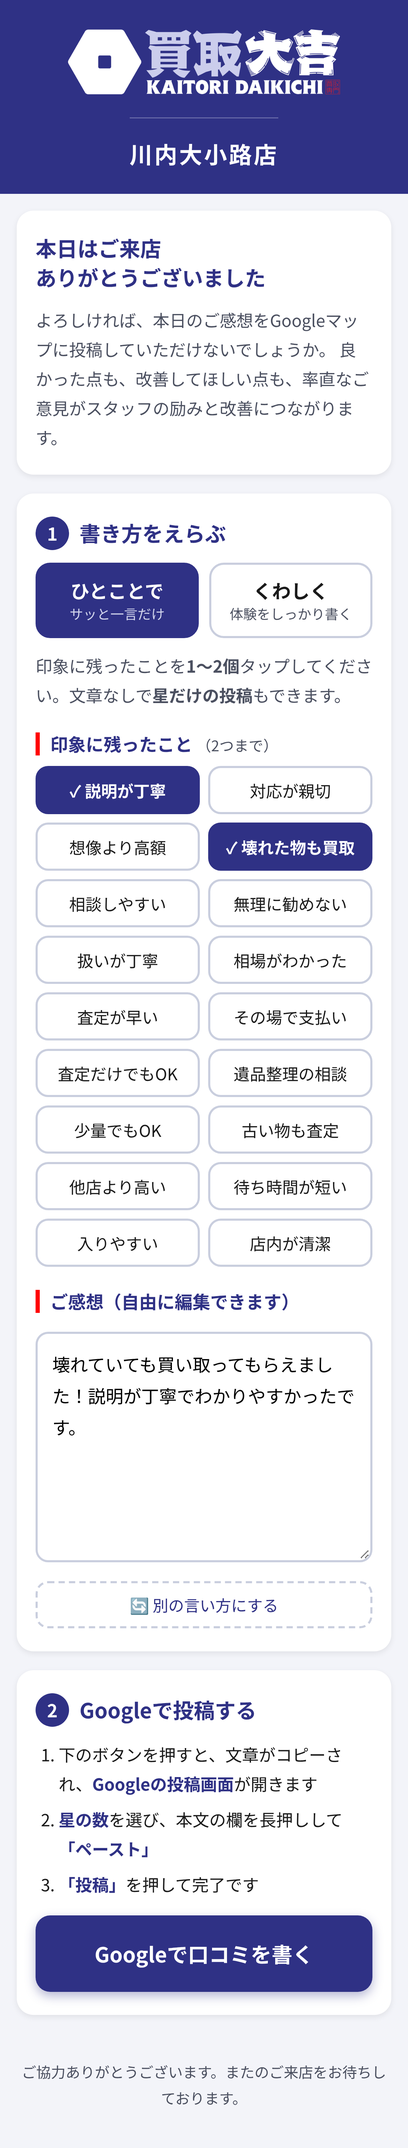
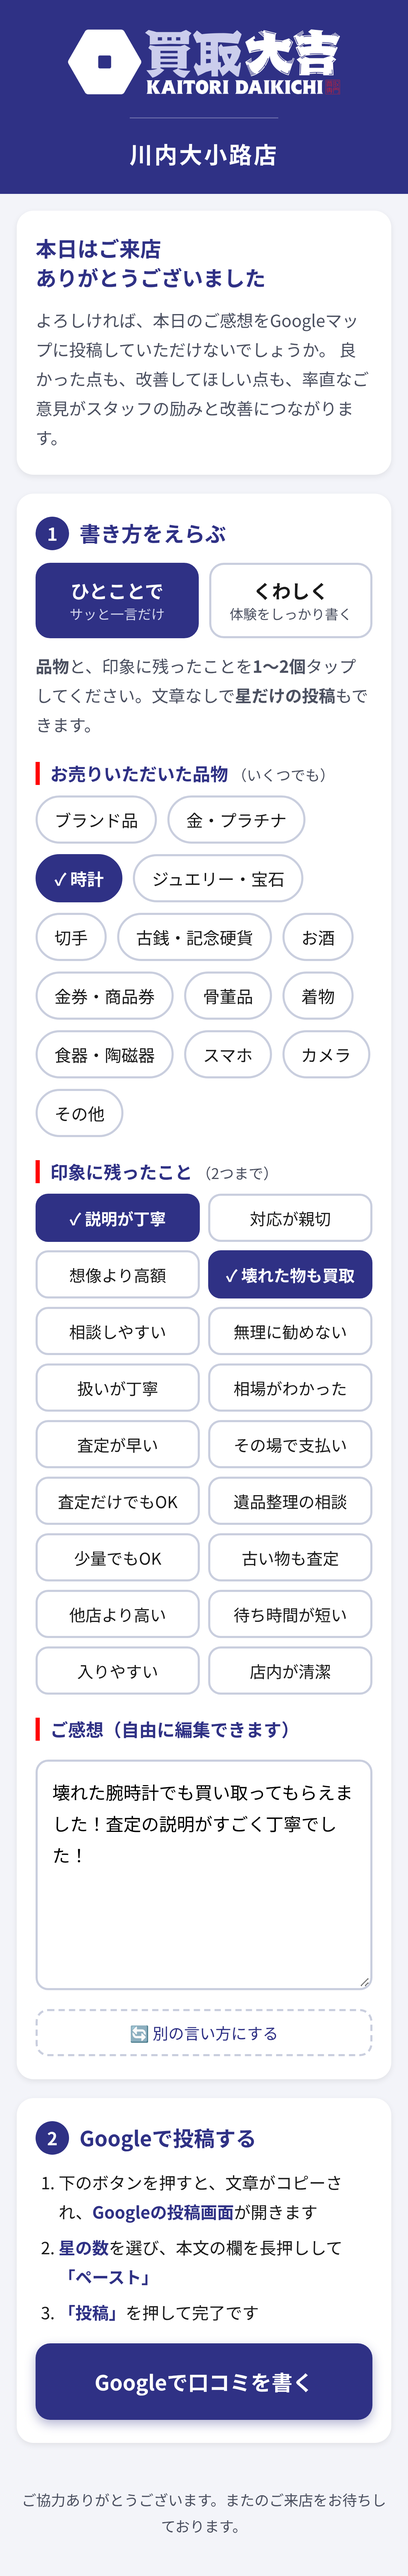
品物のキーワード（貴金属・時計など）が必ず文章に入るように
- 「ひとこと」モードにも品物の選択欄を追加
- 品物ごとに検索されやすい言葉を設定（金・プラチナ → 貴金属 など）
- 品物が1つなら「壊れた時計でも〜」のように文中にも自然に入れる
- 同じ品物名の繰り返しは本文中1回まで（詰め込み防止）
- 「スマホ・カメラ」を別々のボタンに分割（売っていない物を書かないため）

Claude-Session: https://claude.ai/code/session_019pqPey41PXqapbJbBahgUt

diff --git a/index.html b/index.html
@@ -137,16 +137,16 @@
       <button type="button" class="mode" data-mode="short"><b>ひとことで</b><small>サッと一言だけ</small></button>
       <button type="button" class="mode" data-mode="detail"><b>くわしく</b><small>体験をしっかり書く</small></button>
     </div>
-    <p class="muted short-only" style="margin-top:12px">印象に残ったことを<b>1〜2個</b>タップしてください。文章なしで<b>星だけの投稿</b>もできます。</p>
+    <p class="muted short-only" style="margin-top:12px"><b>品物</b>と、印象に残ったことを<b>1〜2個</b>タップしてください。文章なしで<b>星だけの投稿</b>もできます。</p>
     <p class="muted detail-only" style="margin-top:12px">当てはまるものをタップすると下書きができます。ご自身の言葉で自由に書き換えてください。</p>
 
     <div class="detail-only">
       <div class="label">ご利用は</div>
       <div class="chips" data-group="visit"></div>
-
-      <div class="label">お売りいただいた品物 <small>（いくつでも）</small></div>
-      <div class="chips" data-group="item"></div>
     </div>
+
+    <div class="label">お売りいただいた品物 <small>（いくつでも）</small></div>
+    <div class="chips" data-group="item"></div>
 
     <div class="label">印象に残ったこと <small class="short-only">（2つまで）</small><small class="detail-only">（いくつでも）</small></div>
     <div class="chips grid" data-group="point"></div>
@@ -191,9 +191,24 @@ const CONFIG = {
   // ご利用回数（1つだけ選べる）
   visits: ["初めて", "2回目以上"],
   // 品物（複数選べる。「その他」は文章に品名を出さない）
+  //   words: 文章の中で使う言葉。Googleで検索されやすいキーワード（貴金属・時計など）を入れる。
+  //          複数あるときは開くたびにどれか1つを使う。お客様が売っていない物を書かないよう、
+  //          ボタンの意味と同じ範囲の言葉だけにする（例：「金・プラチナ」→「貴金属」はOK）
   items: [
-    "ブランド品", "金・プラチナ", "時計", "ジュエリー・宝石", "切手", "古銭・記念硬貨",
-    "お酒", "金券・商品券", "骨董品", "着物", "食器・陶磁器", "スマホ・カメラ", "その他",
+    { label: "ブランド品",       words: ["ブランド品", "ブランド品"] },
+    { label: "金・プラチナ",     words: ["貴金属", "金・プラチナなどの貴金属"] },
+    { label: "時計",             words: ["時計", "腕時計"] },
+    { label: "ジュエリー・宝石", words: ["ジュエリー", "宝石・ジュエリー"] },
+    { label: "切手",             words: ["切手"] },
+    { label: "古銭・記念硬貨",   words: ["古銭・記念硬貨"] },
+    { label: "お酒",             words: ["お酒"] },
+    { label: "金券・商品券",     words: ["金券"] },
+    { label: "骨董品",           words: ["骨董品"] },
+    { label: "着物",             words: ["着物"] },
+    { label: "食器・陶磁器",     words: ["食器・陶磁器"] },
+    { label: "スマホ",           words: ["スマホ"] },
+    { label: "カメラ",           words: ["カメラ"] },
+    { label: "その他",           words: [] },
   ],
   // 印象に残ったこと
   // ★ 画面にはこの並び順のまま表示される。選んでほしいものほど上に書く。
@@ -205,7 +220,7 @@ const CONFIG = {
   points: [
     // --- 上位：お店として特に伝わってほしいこと ---
     { label: "説明が丁寧", rp: 6,
-      mids: ["査定の内容を一つずつ丁寧に説明していただき", "査定額の理由をわかりやすく説明してくれて", "なぜこの金額なのかをきちんと説明してもらえて"],
+      mids: ["査定の内容を一つずつ丁寧に説明していただき", "{it|品物}の査定額の理由をわかりやすく説明してくれて", "なぜこの金額なのかをきちんと説明してもらえて"],
       ends: ["査定の内容を一つずつ丁寧に説明していただけました", "査定額の理由をわかりやすく説明してくれました", "なぜこの金額なのか、きちんと説明してもらえて納得できました"],
       shorts: ["説明が丁寧でわかりやすかったです。", "査定の説明がすごく丁寧でした！", "金額の理由まで説明してくれて納得でした。"],
       recs: ["初めてでも納得して売れると思います。", "買取が初めての人にもいいと思います。"] },
@@ -216,13 +231,13 @@ const CONFIG = {
       recs: ["安心して相談できるお店です。"] },
     { label: "想像より高額", rp: 5,
       mids: ["思っていたより高い金額をつけていただき", "予想以上の金額になって", "想像していたより高く買い取ってもらえて"],
-      ends: ["思っていたより高い金額がついて嬉しかったです", "予想以上の金額になってびっくりしました", "想像していたより高く買い取ってもらえました"],
-      shorts: ["思ってたより高く売れて嬉しかったです！", "予想以上の金額でした。", "想像より高値がついてびっくりしました。"],
+      ends: ["思っていたより高い金額がついて嬉しかったです", "予想以上の金額になってびっくりしました", "{it|品物}を想像していたより高く買い取ってもらえました"],
+      shorts: ["{it|品物}が思ってたより高く売れて嬉しかったです！", "予想以上の金額でした。", "{it|品物}に想像より高値がついてびっくりしました。"],
       recs: ["迷っている物があるなら一度見てもらうといいと思います。", "売るか迷っている人は一度査定してもらうといいです。"] },
     { label: "壊れた物も買取", rp: 1,
-      mids: ["壊れて使えなくなった物まで買い取っていただき", "壊れている物でも値段をつけてくれて", "動かなくなった物まで買い取ってもらえて"],
-      ends: ["壊れて使えなくなった物まで買い取っていただけました", "壊れている物でもちゃんと値段をつけてくれました", "動かなくなった物まで買い取ってもらえて助かりました"],
-      shorts: ["壊れていても買い取ってもらえました！", "壊れた物にも値段がついて驚きました。", "捨てようと思っていた物が売れて助かりました。"],
+      mids: ["壊れて使えなくなった{it|物}まで買い取っていただき", "壊れている{it|物}でも値段をつけてくれて", "動かなくなった物まで買い取ってもらえて"],
+      ends: ["壊れて使えなくなった{it|物}まで買い取っていただけました", "壊れている{it|物}でもちゃんと値段をつけてくれました", "動かなくなった物まで買い取ってもらえて助かりました"],
+      shorts: ["壊れた{it|物}でも買い取ってもらえました！", "壊れた{it|物}にも値段がついて驚きました。", "捨てようと思っていた{it|物}が売れて助かりました。"],
       recs: ["捨てる前に一度持っていくのがおすすめです。", "壊れているからと諦めずに相談してみてください。"] },
     { label: "相談しやすい", rp: 8,
       mids: ["わからないことも気軽に相談でき", "質問にも嫌な顔せず答えてくれて", "気になることを何でも聞きやすくて"],
@@ -235,9 +250,9 @@ const CONFIG = {
       shorts: ["無理に勧められず安心でした。", "しつこくなくて良かったです。", "押し売り感がなくて安心しました。"],
       recs: ["まずは金額だけ聞いてみたい人でも行きやすいと思います。"] },
     { label: "扱いが丁寧", rp: 10,
-      mids: ["大切な品物を丁寧に扱っていただき", "品物を丁寧に扱ってくれて", "思い出の品も大事に扱ってもらえて"],
-      ends: ["大切な品物を丁寧に扱っていただけました", "品物を丁寧に扱ってくれました", "思い出の品も大事に扱ってもらえて嬉しかったです"],
-      shorts: ["品物を丁寧に扱ってくれました。", "扱いが丁寧で好感が持てました。", "大事な物を丁寧に見てもらえました。"],
+      mids: ["大切な{it|品物}を丁寧に扱っていただき", "品物を丁寧に扱ってくれて", "思い出の品も大事に扱ってもらえて"],
+      ends: ["大切な{it|品物}を丁寧に扱っていただけました", "品物を丁寧に扱ってくれました", "思い出の品も大事に扱ってもらえて嬉しかったです"],
+      shorts: ["{it|品物}を丁寧に扱ってくれました。", "扱いが丁寧で好感が持てました。", "大事な{it|物}を丁寧に見てもらえました。"],
       recs: ["思い入れのある物でも安心して任せられます。"] },
     { label: "相場がわかった", rp: 7,
       mids: ["相場についてわかりやすく教えていただき", "今の相場も教えてくれて", "相場の話も聞けて"],
@@ -271,14 +286,14 @@ const CONFIG = {
       shorts: ["少しだけでも快く見てくれました。", "数点だけでも大丈夫でした。", "少量でも嫌な顔されませんでした。"],
       recs: ["少しだけ売りたい時でも気軽に持ち込めます。"] },
     { label: "古い物も査定", rp: 1.5,
-      mids: ["古い物や傷のある物も一つずつ見ていただき", "古くて傷のある物まで見てくれて", "昔の物も一つずつ確認してもらえて"],
-      ends: ["古い物や傷のある物も一つずつ見ていただけました", "古くて傷のある物まで見てくれました", "昔の物も一つずつ確認してもらえました"],
-      shorts: ["古い物でもちゃんと見てくれました。", "傷がある物も査定してもらえました。", "昔の物も一つずつ見てもらえました。"],
+      mids: ["古い物や傷のある物も一つずつ見ていただき", "古くて傷のある{it|物}まで見てくれて", "昔の物も一つずつ確認してもらえて"],
+      ends: ["古い物や傷のある物も一つずつ見ていただけました", "古くて傷のある{it|物}まで見てくれました", "昔の物も一つずつ確認してもらえました"],
+      shorts: ["古い{it|物}でもちゃんと見てくれました。", "傷がある{it|物}も査定してもらえました。", "昔の物も一つずつ見てもらえました。"],
       recs: ["古い物でも諦めずに一度見てもらうといいと思います。"] },
     { label: "他店より高い", rp: 5.5,
       mids: ["他のお店よりも高い金額を提示していただき", "他店より高い金額を出してくれて", "よそで聞いた金額より高くて"],
-      ends: ["他のお店よりも高い金額を提示していただけました", "他店より高い金額を出してくれました", "よそで聞いた金額より高くて驚きました"],
-      shorts: ["他のお店より高かったです！", "よそより高く売れました。", "他店と比べてこちらが高かったです。"],
+      ends: ["他のお店よりも高い金額を提示していただけました", "{it|品物}に他店より高い金額を出してくれました", "よそで聞いた金額より高くて驚きました"],
+      shorts: ["他のお店より高かったです！", "{it|品物}がよそより高く売れました。", "他店と比べてこちらが高かったです。"],
       recs: ["どこに売るか迷っているなら比べてみるといいです。"] },
     // --- 下位：お店の環境 ---
     { label: "待ち時間が短い", rp: 14,
@@ -328,10 +343,12 @@ function reroll() {
     firstRec:       pick(["初めてでも安心して利用できると思います。", "初めての人でも大丈夫だと思います。"]),
     closing:        pick(["また利用したいと思います。", "また何かあればお願いします。", "次もお願いしようと思います。", "ありがとうございました。", "また来ます！", ""]),
     shortClosing:   pick(["また来ます！", "ありがとうございました。", "また利用します。", "", ""]),
+    shortItem:      pick(["{items}を売りました。", "{items}の買取でお世話になりました。", "{items}を買い取ってもらいました。", "{items}の買取で利用しました。"]),
     swapShort:      Math.random() < 0.5,
     useRec:         Math.random() < 0.5,   // 「これから来る人へ」は半分の確率でだけ入れる（毎回入ると宣伝っぽくなる）
   };
   V = {};
+  CONFIG.items.forEach(it => { V["item:" + it.label] = pick(it.words.length ? it.words : [""]); });
   CONFIG.points.forEach(p => {
     V[p.label] = { mid: pick(p.mids), end: pick(p.ends), short: pick(p.shorts), rec: pick(p.recs) };
   });
@@ -344,6 +361,20 @@ function joinItems(list) {
   return list.slice(0, -1).join("、") + "と" + list[list.length - 1];
 }
 
+// 選んだ品物 → 文章で使う言葉（「その他」は除く）
+const itemWords = sel => sel.item.filter(x => x !== "その他").map(l => V["item:" + l]);
+
+// {it|代わりの言葉} を埋める。品物が1つだけ選ばれていればその言葉、それ以外は代わりの言葉。
+// 同じ品物名を何度も繰り返すと不自然（キーワードの詰め込み）なので、本文中で使うのは1回まで
+let usedIt = false;
+function fill(t, sel) {
+  const ws = itemWords(sel);
+  return t.replace(/\{it\|([^}]*)\}/g, (_, fb) => {
+    if (ws.length === 1 && !usedIt) { usedIt = true; return ws[0]; }
+    return fb;
+  });
+}
+
 // 文頭に来たら「〜も」→「〜が」にする主語（「古い物も」「わからないことも」は「も」のままが自然なので入れない）
 const FIRST_SUBJECTS = /^(スタッフの方の対応|スタッフの方|待ち時間|お店の雰囲気|お店の中|お店|査定|店内)も/;
 
@@ -352,7 +383,7 @@ function joinPoints(labels) {
   const sentences = [];
   for (let i = 0; i < labels.length; i += 2) {
     const pair = labels.slice(i, i + 2);
-    let s = pair.length === 2 ? `${V[pair[0]].mid}、${V[pair[1]].end}。` : `${V[pair[0]].end}。`;
+    let s = pair.length === 2 ? `${fill(V[pair[0]].mid, selected)}、${fill(V[pair[1]].end, selected)}。` : `${fill(V[pair[0]].end, selected)}。`;
     if (i === 0) s = s.replace(FIRST_SUBJECTS, "$1が");
     sentences.push(s);
   }
@@ -363,17 +394,24 @@ function joinPoints(labels) {
 const endPunct = t => (t && !/[。！!？?♪）)」]$/.test(t)) ? t + "。" : t;
 
 // ひとことモード：選んだ項目（最大2つ）の短い一文だけ
+// 品物を選んでいれば、その言葉（貴金属・時計など）が必ず文章に入る
 function buildShort(sel) {
   const labels = sel.point.slice(0, 2);
-  if (!labels.length) return "";
+  const ws = itemWords(sel);
+  usedIt = false;
   const ordered = W.swapShort ? [...labels].reverse() : labels;   // 並び順もときどき入れ替える
-  return ordered.map(l => V[l].short).join("") + W.shortClosing;
+  const body = ordered.map(l => fill(V[l].short, sel)).join("");
+  // 品物名が本文に入らなかった時だけ「〇〇を売りました。」を前につける（同じ言葉を2回続けない）
+  const opening = (ws.length && !usedIt) ? W.shortItem.replace("{items}", joinItems(ws)) : "";
+  if (!opening && !body) return "";
+  return opening + body + (body ? W.shortClosing : "");
 }
 
 // くわしくモード：きっかけ → 体験 →（ご自身の言葉）→（これから来る人へ）→ 締め
 function buildDetail(sel, own) {
-  const items = sel.item.filter(x => x !== "その他");
-  const itemText = items.length ? joinItems(items) : (sel.item.length ? "手持ちの品" : "");
+  const ws = itemWords(sel);
+  const itemText = ws.length ? joinItems(ws) : (sel.item.length ? "手持ちの品" : "");
+  usedIt = false;
   const first = sel.visit === "初めて";
 
   let opening = "";
@@ -473,7 +511,7 @@ document.getElementById("reroll").onclick = () => { reroll(); refresh(); };
 
 reroll();
 makeChips("visit", CONFIG.visits, true);
-makeChips("item",  CONFIG.items);
+makeChips("item",  CONFIG.items.map(i => i.label));
 makeChips("point", CONFIG.points.map(p => p.label));
 setMode("short");
 
